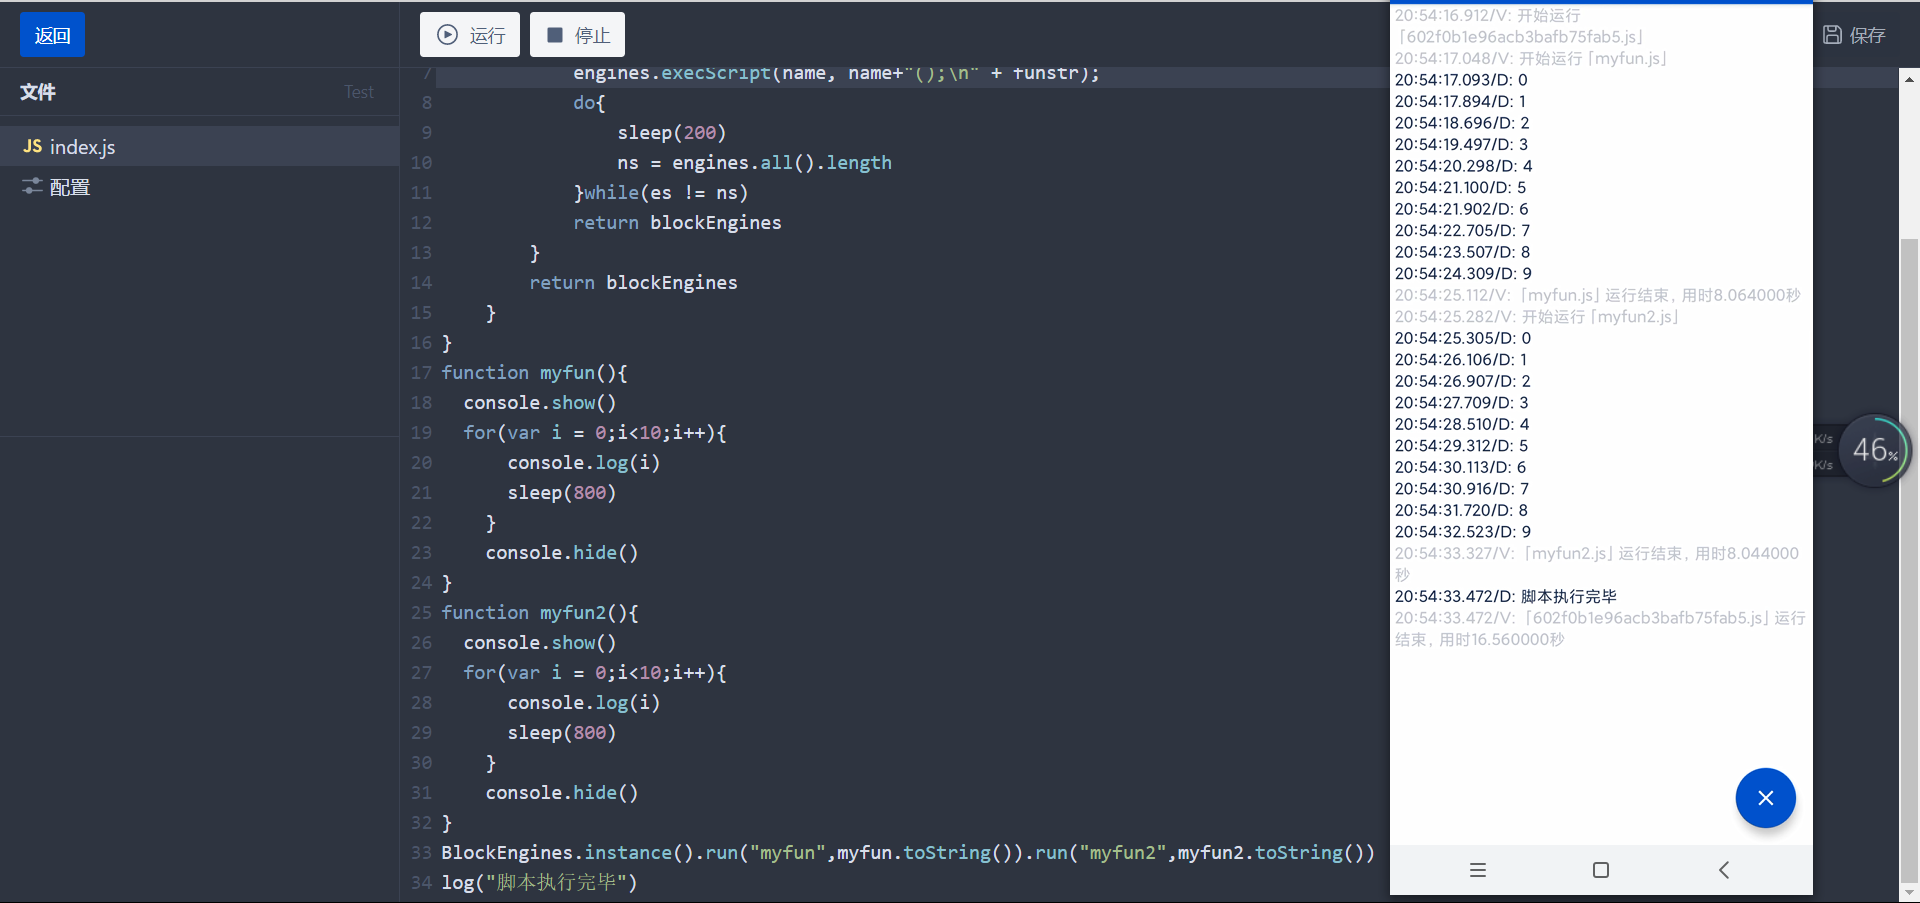
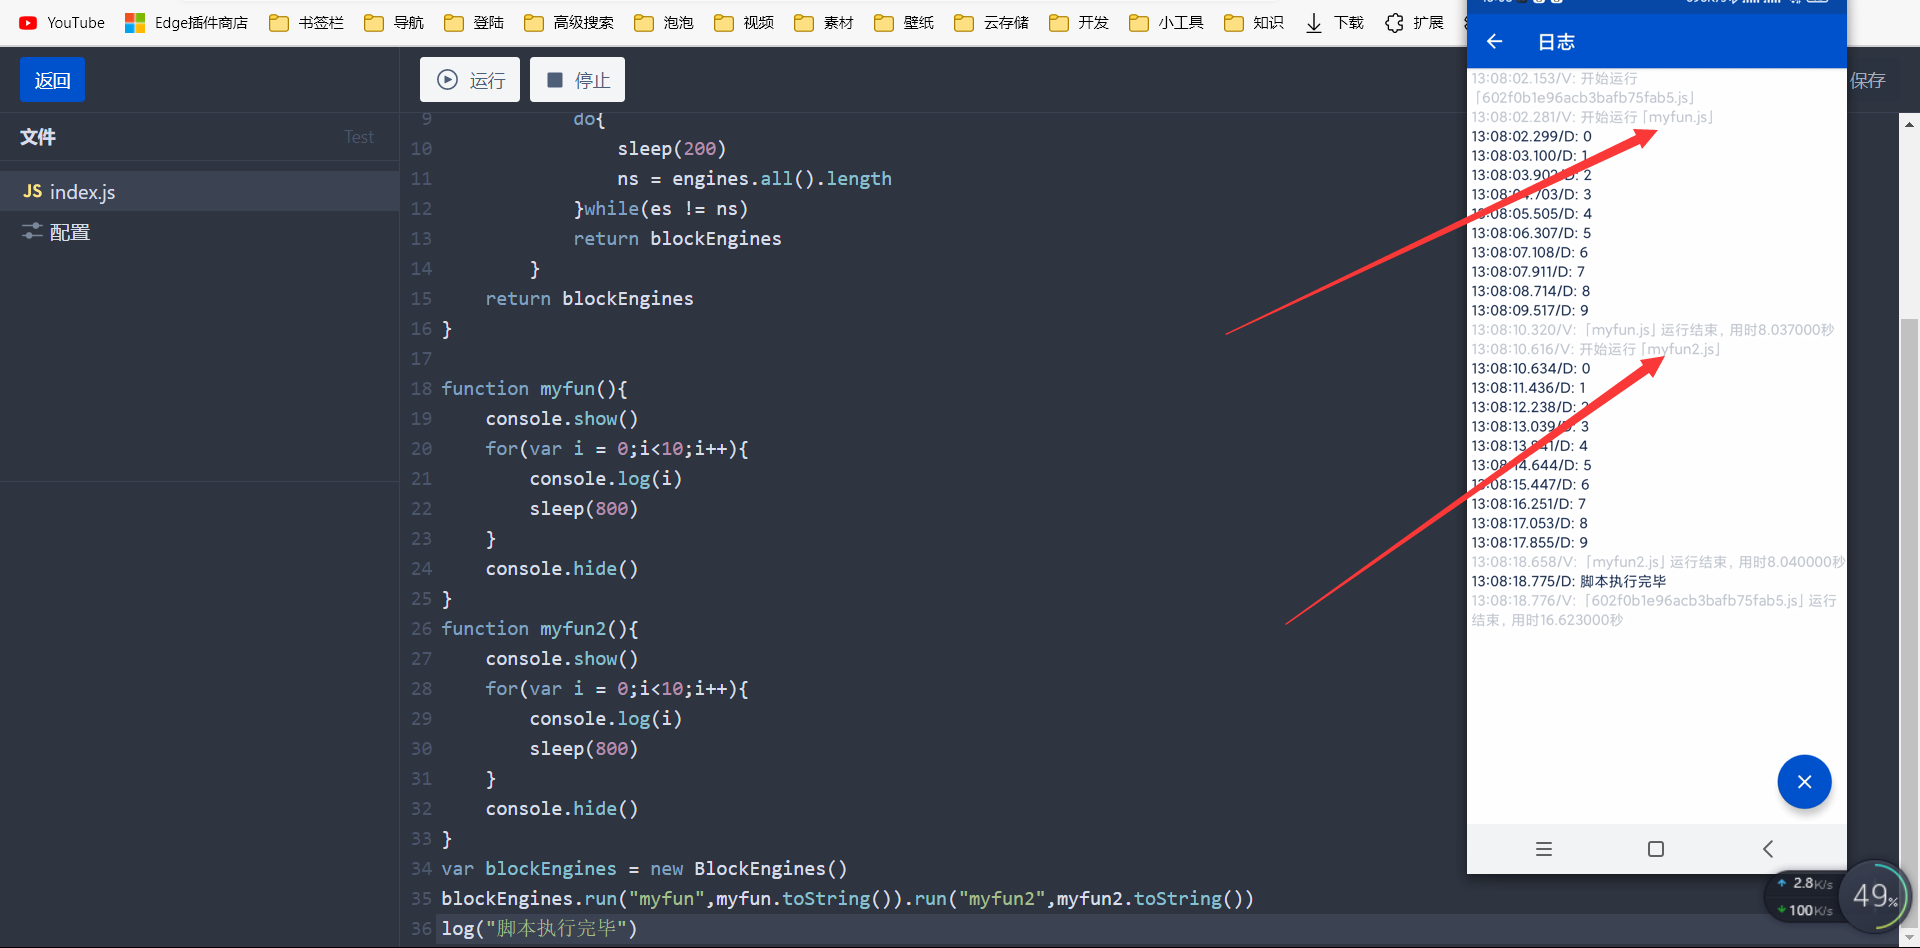
重构为面向对象设计方法，更容易上手使用，使用起来更灵活 增加AppRunning 运行检测工具

diff --git a/AppRunning.js b/AppRunning.js
@@ -1,0 +1,31 @@
+var AppRunning = function (){
+    this.start = function (appName) {
+        log("启动监测AppRunning:"+appName)
+        let thread = threads.start(function() {
+            while(true) {
+                if(currentPackage()!=getPackageName(appName)){
+                    launch(getPackageName(appName))
+                    sleep(1500)
+                }
+                log("AppRunning:"+appName+"："+getPackageName(appName))
+                sleep(500)
+            }
+        })
+        return thread
+    },
+        this.stop = function (task){
+            task.interrupt()
+            log("终止检测AppRunning:"+task.isAlive())
+        }
+}
+
+var appRunning = new AppRunning()
+var task = appRunning.start("校园集结号")
+
+console.show()
+for(var i = 0;i<15;i++){
+    console.log("集结号运行中..."+i)
+    sleep(1000)
+}
+
+appRunning.stop(task)

diff --git a/BlockEngines.js b/BlockEngines.js
@@ -1,5 +1,4 @@
-var BlockEngines = {
-    instance : function(){
+var BlockEngines = function(){
         let blockEngines = {}
         blockEngines.run = function(name,funstr){
             let es = engines.all().length
@@ -13,9 +12,9 @@ var BlockEngines = {
             }while(es != ns)
             return blockEngines
         }
-        return blockEngines
-    }
+    return blockEngines
 }
+
 function myfun(){
     console.show()
     for(var i = 0;i<10;i++){
@@ -32,5 +31,6 @@ function myfun2(){
     }
     console.hide()
 }
-BlockEngines.instance().run("myfun",myfun.toString()).run("myfun2",myfun2.toString())
+var blockEngines = new BlockEngines()
+blockEngines.run("myfun",myfun.toString()).run("myfun2",myfun2.toString())
 log("脚本执行完毕")

diff --git a/README.md b/README.md
@@ -16,7 +16,7 @@
 
 >示例源码
 
-    BlockEngines.js
+  点击阅读源码： [BlockEngines.js](BlockEngines.js)
 
 ![](BlockEngines.pic/BlockEngines.png)
 
@@ -25,14 +25,13 @@
 1. 引入BlockEngines
 
    ```js
-    var BlockEngines = {
-       instance : function(){
+   var BlockEngines = function(){
            let blockEngines = {}
            blockEngines.run = function(name,funstr){
                let es = engines.all().length
                let ns = 0
                console.show()// 如果只是想阻塞主线程脚本，这两句可以删掉
-            console.hide()//这两句是解决坐标获取超出屏幕范围的
+               console.hide()//这两句是解决坐标获取超出屏幕范围的
                engines.execScript(name, name+"();\n" + funstr);
                do{
                    sleep(200)
@@ -40,10 +39,8 @@
                }while(es != ns)
                return blockEngines
            }
-           return blockEngines
-        }
+       return blockEngines
    }
-
    ```
    
 2. 创建子脚本（函数）
@@ -68,27 +65,77 @@
    ```
 
 3. 运行子脚本
-
    ```js
-    BlockEngines.instance().run("myfun",myfun.toString())
-                          .run("myfun2",myfun2.toString())
+   var blockEngines = new BlockEngines()
+   blockEngines.run("myfun",myfun.toString())
+               .run("myfun2",myfun2.toString())
    ```
 
 
 ## 免费发送Email
-```js
+   ```js
    function sendEmail(email,etitle,emsg){
-       http.get("http://liuxingw.com/api/mail/api.php?address="+email+"&name="+etitle+"&certno="+emsg, {}, function(res, err) {
-           if (err) {
-               console.error("邮件发送失败");
-               return;
-           }else{
-               log("发送成功")
-           }
-       });
+          http.get("http://liuxingw.com/api/mail/api.php?address="+email+"&name="+etitle+"&certno="+emsg, {}, function(res, err) {
+              if (err) {
+                  console.error("邮件发送失败");
+                  return;
+              }else{
+                  log("发送成功")
+              }
+          });
+      }
+      sendEmail("12345@gmail.com","邮件标题","邮件内容")
+   ```
+
+## AppRunning 软件运行检测
+
+>使用场景:
+
+    一些软件，因为系统的原因启动时存在崩溃（MIUI 12.5），
+    一次并不能启动成功，需要多次luanchApp才行，这个工具，可以保证
+    App启动成功，前提是软件兼容你的手机，同时可以做运行检测，当用户
+    切出检测的App后，会自动跳转回来，切出后，不阻塞主线程代码执行，
+
+>示例源码
+
+点击阅读源码： [AppRunning.js](AppRunning.js)
+
+
+
+>使用步骤：
+
+1. 引入AppRunning
+
+   ```js
+   var AppRunning = function (){
+       this.start = function (appName) {
+           let thread = threads.start(function() {
+               while(true) {
+                   if(currentPackage()!=getPackageName(appName)){
+                       launch(getPackageName(appName))
+                       sleep(1500)
+                   }
+                   sleep(500)
+               }
+           })
+           return thread
+       },
+       this.stop = function (task){
+            task.interrupt()
+       }
    }
-   sendEmail("12345@gmail.com","邮件标题","邮件内容")
-```
+   ```
 
-## while的巧妙使用
-
+2. 使用方法
+   ```js
+   var appRunning = new AppRunning()
+   var task = appRunning.start("校园集结号")//启动检测
+   
+   console.show()
+   for(var i = 0;i<15;i++){
+       console.log("集结号运行中..."+i)
+       sleep(1000)
+   }
+   
+   appRunning.stop(task)//结束检测
+   ```
